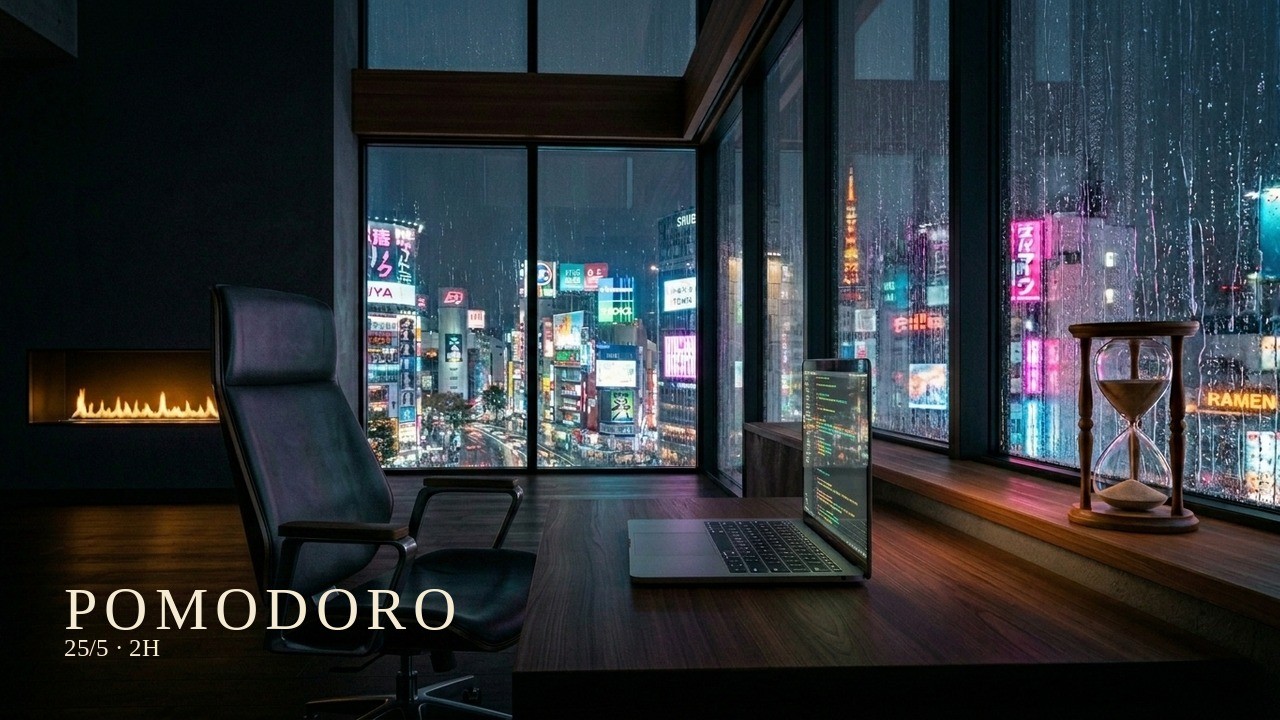
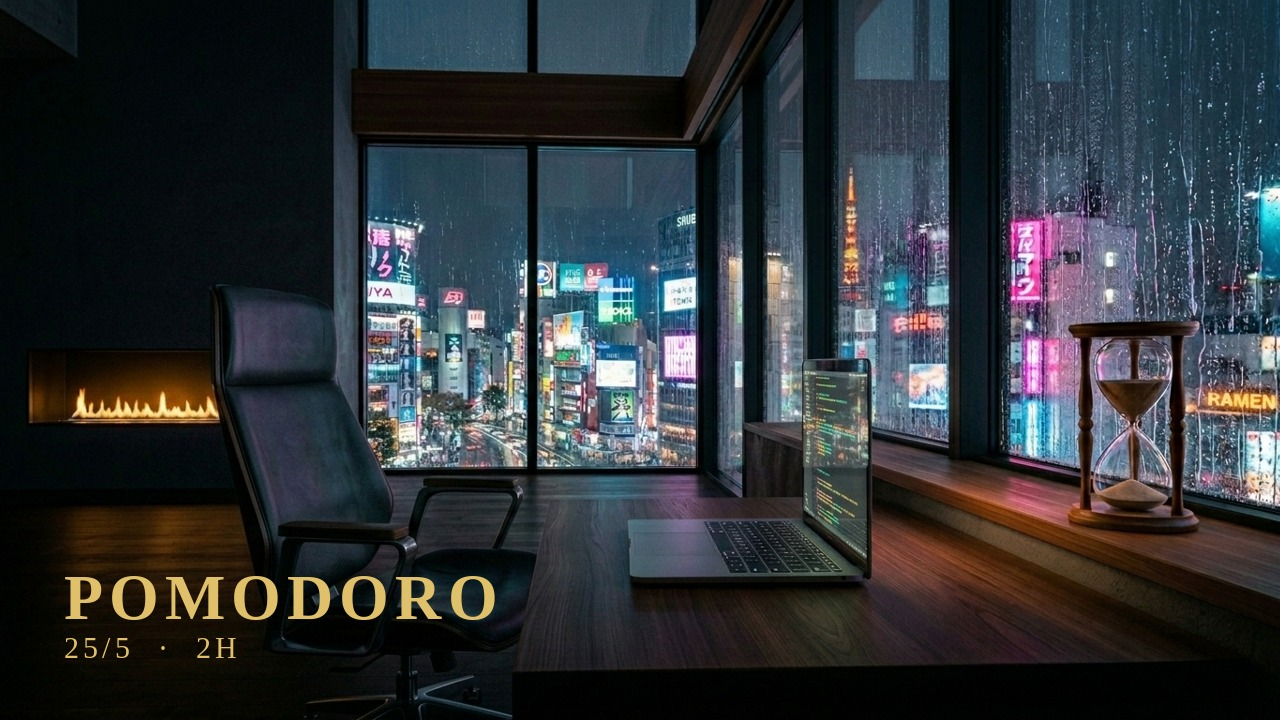
Lock gold thumbnail for Pomodoro + document gold/chroma-key Pomodoro series look

Changed region(s): [[0.0312, 0.7944, 0.4062, 0.9167]]

diff --git a/stillwave/CLAUDE.md b/stillwave/CLAUDE.md
@@ -64,7 +64,8 @@ This Spacious Tokyo Penthouse backdrop is the LOCKED visual signature of StillWa
 - **Why locked:** parallel to Healing Hour's stone lantern — Power Hour's signature is the **hourglass + MacBook + penthouse + fireplace**. Recognizable across every video = brand.
 - **Motion (Flow):** the sand falling is one of the LIVE motion elements in the loop (rain on glass + sand falling + fireplace flame + laptop cursor). Gentle, hypnotic, on-theme for "focus session."
 - **Symbolism:** one turn of the hourglass = one focus block (one pomodoro). Even when the video isn't a literal Pomodoro, the hourglass = "time is being well spent."
-- **Format:** specifically pair this signature with **Pomodoro structure videos** when applicable — the hourglass is the in-scene soul, a clean digital `FOCUS 50:00 / BREAK 10:00` overlay (CapCut, upper-center) handles the actual countdown.
+- **Format:** specifically pair this signature with **Pomodoro structure videos** when applicable — the hourglass is the in-scene soul, a clean digital `FOCUS / BREAK` countdown overlay (upper-center) handles the actual time.
+- **🔒 Pomodoro-series look (locked):** the countdown overlay is **pre-rendered as a green-screen chroma-key MP4** (CapCut doesn't read webm alpha → black box; chroma-key MP4 works on free CapCut). Drop on the top track, key out the green, lay the penthouse loop underneath. Text = **gold `#E4C46C`** (Pomodoro exception to the cream default — echoes fireplace + hourglass sand), bold Liberation Serif, fixed-width digits, dark choke outline so chroma keying leaves no green fringe. The **thumbnail text goes gold too** for consistency. Reusable assets: `stillwave/assets/timer-focus-25min-chroma.mp4` + `timer-break-05min-chroma.mp4`. Pair with the "music-breathing" gong fades (long 50s taper into focus, quick 10s dip into breaks).
 
 ### Laptop screen content per use case
 

diff --git a/stillwave/scripts/power-hour-pomodoro-tokyo-rain-25-5.md b/stillwave/scripts/power-hour-pomodoro-tokyo-rain-25-5.md
@@ -268,9 +268,9 @@ The NanoBanana 16:9 IS the thumbnail (hourglass + MacBook + rain + fireplace + n
 
 - **Text:** `POMODORO`
 - **Tag below:** `25/5 · 2H`
-- Thin elegant serif, cream `#F5EAD2` (Power Hour default — no gold here, no divine theme), low contrast, no glow/shadow/stroke.
+- Thin elegant serif, **gold `#E4C46C`** — Pomodoro-series exception to the cream default: the in-video timer (FOCUS/BREAK + digits) is gold, so the thumbnail goes gold too for a cohesive look, echoing the fireplace + hourglass sand. Low contrast, no glow/shadow/stroke.
 - The image is generated with the lower-left reserved as dark negative space.
-- Final: `assets/power-hour-pomodoro-tokyo-rain-thumb.jpg` (after generation + compositing)
+- Final: `assets/power-hour-pomodoro-tokyo-rain-thumb.jpg` (gold, locked)
 
 ---
 
